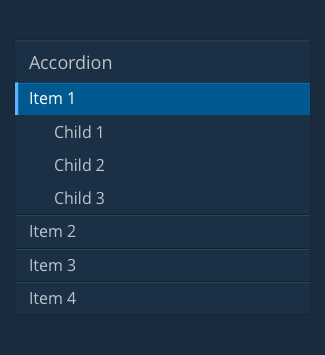
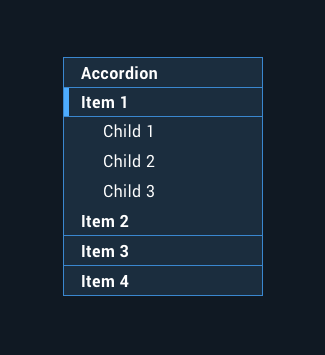
- Replaced accordion images with Astro 5

diff --git a/js/markdown-figure-it.js b/js/markdown-figure-it.js
@@ -13,7 +13,7 @@
  *   https://www.apache.org/licenses/LICENSE-2.0
  *
  * Unless required by applicable law or agreed to in writing, software
- * distributed under the License is distributed on an "AS IS" BASIS,
+ * distributed under the Licenseq is distributed on an "AS IS" BASIS,
  * WITHOUT WARRANTIES OR CONDITIONS OF ANY KIND, either express or implied.
  * See the License for the specific language governing permissions and
  * limitations under the License.
